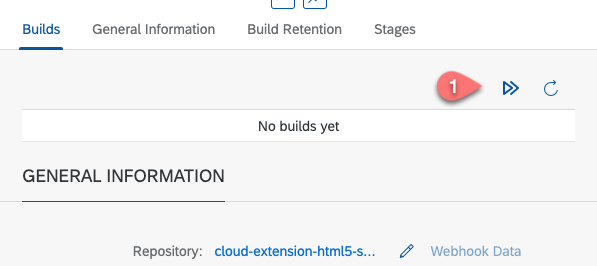
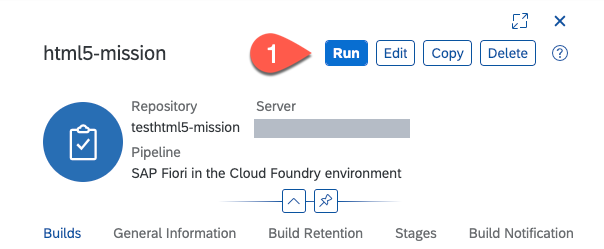
update CI/CD setup

diff --git a/mission/cicd/README.md b/mission/cicd/README.md
@@ -183,7 +183,7 @@ We recommend using a technical user. However, you can use also use your cloud cr
     
 11. Choose **Create** to save the job.
 
-12. To trigger the pipeline manually, select the CI/CD job you have created and choose the **Trigger build** icon as shown below. 
+12. To trigger the pipeline manually, select the CI/CD job you have created and press the **Run** button as shown below. 
 
     ![manual trigger Job](./images/triggerbuild.png)
     
